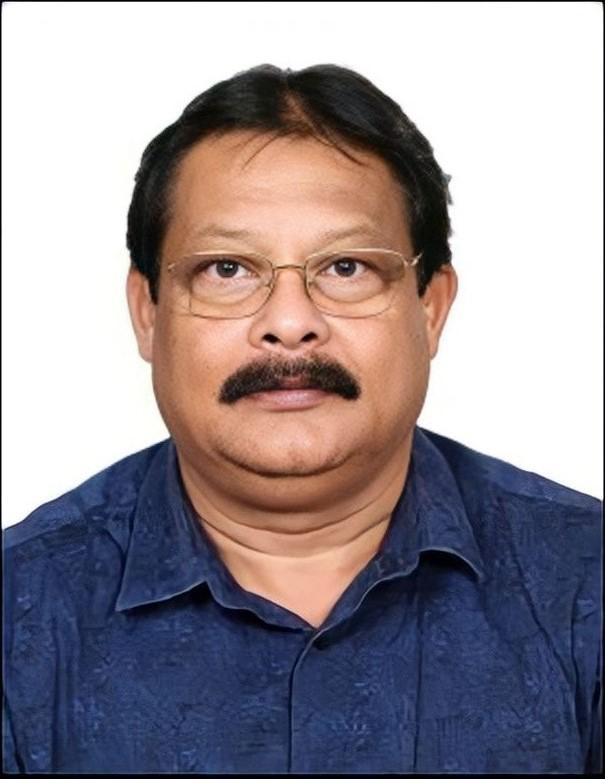
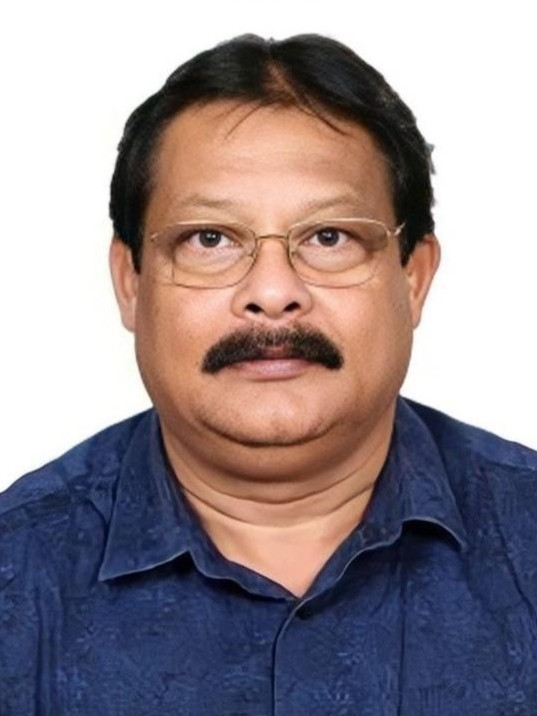
Update Somnath Naik's photo; document team-photo workflow in README
Replaced source photo landed directly on disk (docs/source-images/team/
somnath-naik-original.jpeg) between sessions; reprocessed through the
same pipeline as the other two headshots (flatten alpha if any, cap at
700px wide, JPEG quality 85) into frontend/assets/images/team/
somnath-naik.jpg. Verified it loads correctly on the About page.

README: documents the now-established team-photo source/processed
pairing and how to redo it for a future replacement photo, and updates
"Adding pages" to reflect Services and About actually being built (was
still describing all four as not-yet-built) plus the per-page <head>
script and .page-transition boilerplate every new page needs.

diff --git a/README.md b/README.md
@@ -26,11 +26,18 @@ static file server or CDN at this folder and it works as-is.
 **`docs/`** holds source material that isn't part of the served site: the
 company profile PDF, the original brand logo file, and full-resolution
 originals of every processed image in `frontend/assets/images/` (hero
-photography, client logos) — each named to match its processed counterpart
-(e.g. `docs/source-images/hero/hero-01-original.png` →
-`frontend/assets/images/hero/hero-01.jpg`) so it's obvious which source
-produced which asset if it ever needs reprocessing at a different size or
-quality.
+photography, client logos, team headshots) — each named to match its
+processed counterpart (e.g. `docs/source-images/hero/hero-01-original.png`
+→ `frontend/assets/images/hero/hero-01.jpg`,
+`docs/source-images/team/somnath-naik-original.jpeg` →
+`frontend/assets/images/team/somnath-naik.jpg`) so it's obvious which
+source produced which asset if it ever needs reprocessing at a different
+size or quality. To reprocess a headshot after swapping in a new source
+photo: drop the new original at its `docs/source-images/team/<slug>-
+original.*` path, then resize/flatten/export it to
+`frontend/assets/images/team/<slug>.jpg` (JPEG, quality 85, capped at
+700px wide) — see recent commit history for the one-off Pillow script
+used so far, there's no standing build step for this.
 
 **`backend/`** doesn't exist yet. When there's a reason for one (a contact
 form handler, a CMS-backed Projects/News page, an admin panel, etc.), it
@@ -63,6 +70,21 @@ Then open `http://localhost:8791`.
 
 ## Adding pages
 
-New top-level pages (`services.html`, `projects.html`, `about.html`,
-`contact.html` — linked from the nav already, not yet built) go directly in
-`frontend/`, next to `index.html`, reusing `css/` and `js/` as-is.
+`index.html`, `services.html`, and `about.html` are built. `projects.html`
+and `contact.html` are linked from the nav already but don't exist yet —
+each new page goes directly in `frontend/`, next to the others, reusing
+`css/` and `js/` as-is: shared styling lives in `css/components.css`
+(nav, hero, footer, buttons, the mosaic-reveal effect, the page
+transition), page-specific layout gets its own `css/<page>.css` (see
+`home.css`/`services.css`/`about.css` for the pattern). Every page also
+needs the same inline `<head>` script (scroll-restoration +
+nav-transition-cover handoff — copy it from `services.html` or
+`about.html`, *not* `index.html`, which has an extra intro-seen check
+that's deliberately Home-only) and the `.page-transition` div right after
+`<body>`.
+
+About's dropdown (Mission & Vision / MD's Desk / Our Team) is a
+reference pattern worth reusing if a future page needs the same
+"single page, multiple sections, jump to one from anywhere on the site"
+structure — see `css/components.css`'s `.nav__item--dropdown` and
+`js/main.js#initNavDropdowns`.
